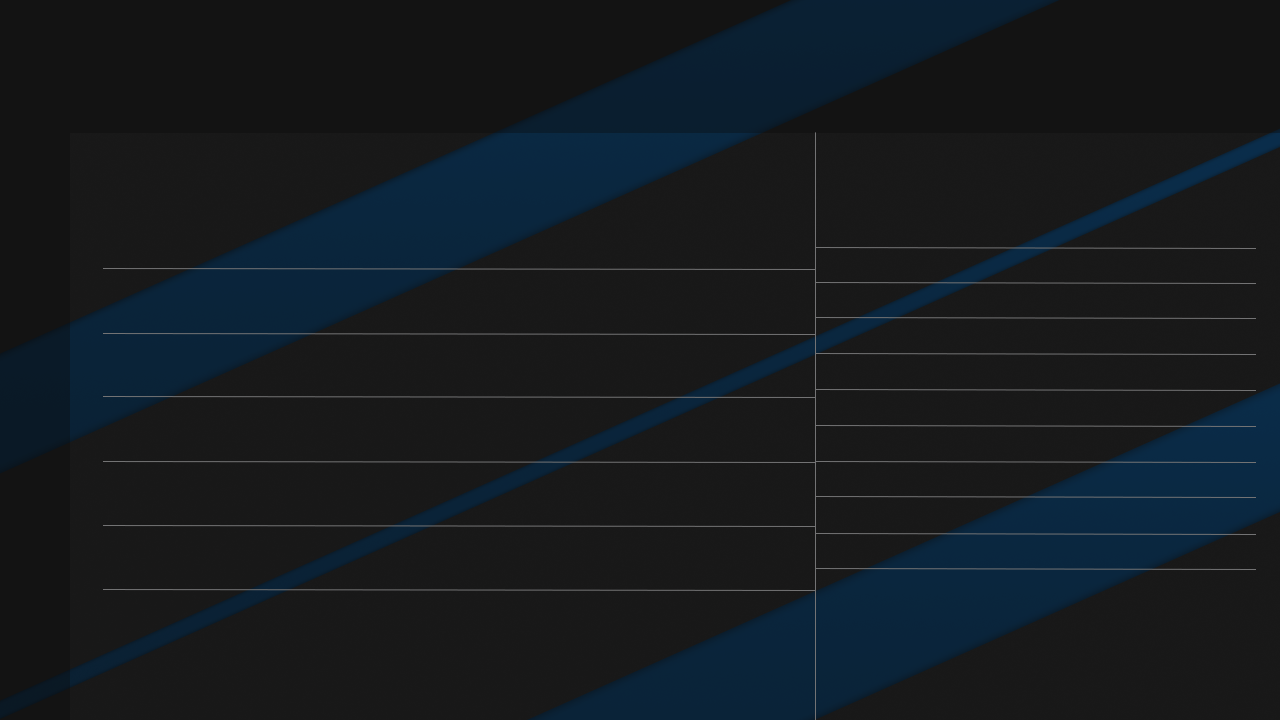
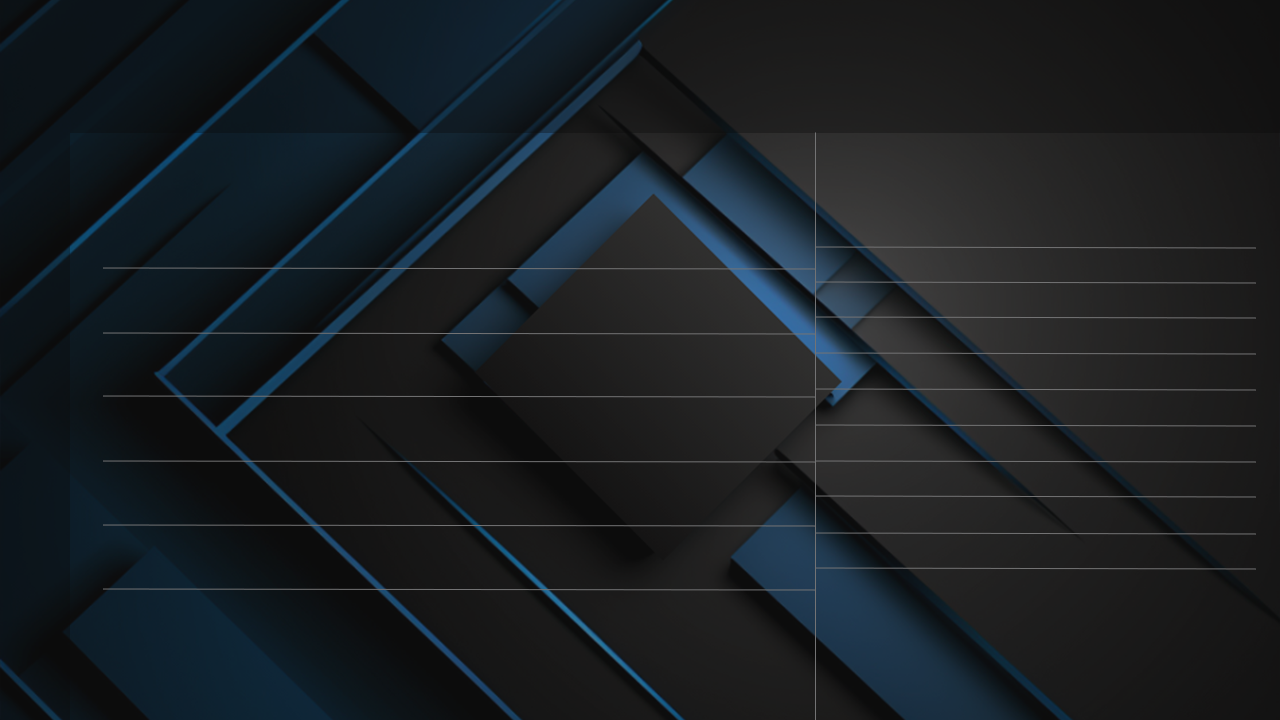
Add: Reorganize non-bias handling
Changelog
------------

- Version bump (for metrics/testing)
- Overhauled Reorganize function to handle non-bias  merge requests
- Replaced background images (testing future theme updates)
- Updated Velocity to work with new Reorganize overhaul

diff --git a/src/core/main.cpp b/src/core/main.cpp
@@ -1831,20 +1831,49 @@ bool static Reorganize(CTxDB& txdb, CBlockIndex* pindexNew)
 
     // Set values
     CBlockIndex* pfork = pindexBest;
-    CBlockIndex* plonger = pindexNew;
-    CBlockIndex* plongerindex = plonger;
-    int64_t pfinglonger = (plonger->nHeight - pfork->nHeight);
-    int64_t pheightlonger = plonger->nHeight;
-    int64_t preorgmax = (pfork->nHeight - BLOCK_REORG_MAX_DEPTH);
-    int diffFactor = 0;
+    CBlockIndex* pMerge = pindexNew;
+    CBlockIndex* pMergeIndex = pMerge;
+    int64_t nMergeDepth = 0;
+    int64_t pHeightMerge = pMerge->nHeight;
+    int64_t nHeightShorter = 0;
+    int64_t nReorgMax = 0;
+    int64_t diffFactor = 0;
+    bool fMergeReverse = false;
+
+    // Find reorganize direction and set values
+    // (Espers [ESP] is not directionally bias)
+    if (pMerge->nHeight > pfork->nHeight) {
+        // Set directionally bias values
+        nMergeDepth = (pMerge->nHeight - pfork->nHeight);
+        nHeightShorter = pfork->nHeight;
+        nReorgMax = (pfork->nHeight - BLOCK_REORG_MAX_DEPTH);
+    } else {
+        // Set directionally bias values
+        nMergeDepth = (pfork->nHeight - pMerge->nHeight);
+        fMergeReverse = true;
+        nHeightShorter = pMerge->nHeight;
+        nReorgMax = (pMerge->nHeight - BLOCK_REORG_MAX_DEPTH);
+    }
+
+
+    // Ensure reorganize direction sanity
+    if (fMergeReverse) {
+        // Only allow reverse reorgs from Demi-nodes
+        // (Override for back-to-block command)
+        if((fDemiPeerRelay(GetRelayPeerAddr) && fDemiNodes) || !strRollbackToBlock.empty()) {
+            LogPrintf("Reorganize() : Authorized a reverse-reorganize, now executing...\n");
+        } else {
+            return error("Reorganize() : Denied a reverse-reorganize - Not authorized!");
+        }
+    }
 
     // Ensure reorganize depth sanity
-    if (pfinglonger > BLOCK_REORG_MAX_DEPTH) {
+    if (nMergeDepth > BLOCK_REORG_MAX_DEPTH) {
         // Only allow deep reorgs from Demi-nodes
         // TODO: allow override as set in config file
         if(fDemiPeerRelay(GetRelayPeerAddr) && fDemiNodes) {
-            preorgmax -= BLOCK_REORG_OVERRIDE_DEPTH;
-            if (pfinglonger > BLOCK_REORG_THRESHOLD) {
+            nReorgMax -= BLOCK_REORG_OVERRIDE_DEPTH;
+            if (nMergeDepth > BLOCK_REORG_THRESHOLD) {
                 return error("Reorganize() : Threshold depth exceeded");
             }
         } else {
@@ -1853,21 +1882,23 @@ bool static Reorganize(CTxDB& txdb, CBlockIndex* pindexNew)
     }
 
     // Set rolling checkpoint status, just in case we haven't accepted any blocks yet
-    // TODO: Clean up to prevent redundant calls beween reorganize and AcceptBlock
-    fRollingCheckpoint = RollingCheckpoints(pfork->nHeight);
+    // and/or in case we're reverse reorganizing
+    // TODO: move this to reorganize direction check, then toggle this only if
+    // no previous blocks were accepted yet (no previous rolling checkpoint)
+    fRollingCheckpoint = RollingCheckpoints(nHeightShorter, pfork);
 
     // Get a checkpoint for quality assurance
     if (fRollingCheckpoint) {
         // Verify chain quality
-        while (pheightlonger > RollingHeight)
+        while (pHeightMerge > RollingHeight)
         {
-            if(plongerindex->GetBlockHash() == RollingBlock) {
+            if(pMergeIndex->GetBlockHash() == RollingBlock) {
                 break;
             }
-            plongerindex = plongerindex->pprev;
-            pheightlonger --;
+            pMergeIndex = pMergeIndex->pprev;
+            pHeightMerge --;
         }
-        if(plongerindex->GetBlockHash() != RollingBlock) {
+        if(pMergeIndex->GetBlockHash() != RollingBlock) {
             return error("Reorganize() : Chain quality failed, blockhash is invalid");
         }
     } else {
@@ -1876,20 +1907,20 @@ bool static Reorganize(CTxDB& txdb, CBlockIndex* pindexNew)
     }
 
     // Find the fork
-    while (pfork != plonger)
+    while (pfork != pMerge)
     {
         diffFactor ++;
-        while (plonger->nHeight > pfork->nHeight)
-            if (!(plonger = plonger->pprev))
+        while (pMerge->nHeight > pfork->nHeight)
+            if (!(pMerge = pMerge->pprev))
                 return error("Reorganize() : plonger->pprev is null");
-        if (pfork == plonger)
+        if (pfork == pMerge)
             break;
         if (!(pfork = pfork->pprev))
             return error("Reorganize() : pfork->pprev is null");
     }
 
     // Verify Supply Sanity of connecting branch
-    if(!bIndex_Factor(plonger, pindexNew, diffFactor))
+    if(!bIndex_Factor(pfork, pMerge, diffFactor))
     {
         // Invalid branch coin supply
         return error("Reorganize() : Invalid branch coin supply");
@@ -1910,7 +1941,7 @@ bool static Reorganize(CTxDB& txdb, CBlockIndex* pindexNew)
     LogPrintf("REORGANIZE: Disconnect %u blocks; %s..%s\n", vDisconnect.size(), pfork->GetBlockHash().ToString(), pindexBest->GetBlockHash().ToString());
     LogPrintf("REORGANIZE: Connect %u blocks; %s..%s\n", vConnect.size(), pfork->GetBlockHash().ToString(), pindexNew->GetBlockHash().ToString());
 
-    // Disconnect shorter branch
+    // Disconnect current branch
     list<CTransaction> vResurrect;
     BOOST_FOREACH(CBlockIndex* pindex, vDisconnect)
     {
@@ -1924,11 +1955,11 @@ bool static Reorganize(CTxDB& txdb, CBlockIndex* pindexNew)
         // We only do this for blocks after the last checkpoint (reorganisation before that
         // point should only happen with -reindex/-loadblock, or a misbehaving peer.
         BOOST_REVERSE_FOREACH(const CTransaction& tx, block.vtx)
-            if (!(tx.IsCoinBase() || tx.IsCoinStake()) && pindex->nHeight > preorgmax)
+            if (!(tx.IsCoinBase() || tx.IsCoinStake()) && pindex->nHeight > nReorgMax)
                 vResurrect.push_front(tx);
     }
 
-    // Connect longer branch
+    // Connect merging branch
     vector<CTransaction> vDelete;
     for (unsigned int i = 0; i < vConnect.size(); i++)
     {
@@ -1962,12 +1993,12 @@ bool static Reorganize(CTxDB& txdb, CBlockIndex* pindexNew)
     if (!txdb.TxnCommit())
         return error("Reorganize() : TxnCommit failed");
 
-    // Disconnect shorter branch
+    // Disconnect current branch
     BOOST_FOREACH(CBlockIndex* pindex, vDisconnect)
         if (pindex->pprev)
             pindex->pprev->pnext = NULL;
 
-    // Connect longer branch
+    // Connect merging branch
     BOOST_FOREACH(CBlockIndex* pindex, vConnect)
         if (pindex->pprev)
             pindex->pprev->pnext = pindex;
@@ -2477,7 +2508,7 @@ bool CBlock::AcceptBlock()
 
     // Set rolling checkpoint status
     // TODO: Clean up to prevent redundant calls beween reorganize and AcceptBlock
-    fRollingCheckpoint = RollingCheckpoints(nHeight);
+    fRollingCheckpoint = RollingCheckpoints(nHeight, pindexPrev);
 
     return true;
 }

diff --git a/src/consensus/velocity.cpp b/src/consensus/velocity.cpp
@@ -129,17 +129,17 @@ bool Velocity(CBlockIndex* prevBlock, CBlock* block, bool fFactor_tx)
     return true;
 }
 
-bool RollingCheckpoints(int nHeight)
+bool RollingCheckpoints(int nHeight, CBlockIndex* pindexRequest)
 {
     // Skip chain start
     if (nHeight < 5000) {
         return false;
     }
     // Define values
-    CBlockIndex* pindexCurrentBlock = pindexBest;
+    CBlockIndex* pindexCurrentBlock = pindexRequest;
     CBlockIndex* pindexPastBlock = pindexCurrentBlock;
     // Set count and loop
-    int pastBLOCK_1 = (pindexCurrentBlock->nHeight - (BLOCK_TEMP_CHECKPOINT_DEPTH + BLOCK_REORG_THRESHOLD));
+    int pastBLOCK_1 = (nHeight - (BLOCK_TEMP_CHECKPOINT_DEPTH + BLOCK_REORG_THRESHOLD));
     while (pastBLOCK_1 < pindexCurrentBlock->nHeight) {
         // Index backwards
         pindexPastBlock = pindexPastBlock->pprev;

diff --git a/src/consensus/velocity.h b/src/consensus/velocity.h
@@ -30,7 +30,7 @@ bool tx_Factor(CBlockIndex* prevBlock, CBlock* block);
 bool bIndex_Factor(CBlockIndex* InSplitPoint, CBlockIndex* InSplitEnd, int InFactor);
 
 int VelocityI(int nHeight);
-bool RollingCheckpoints(int nHeight);
+bool RollingCheckpoints(int nHeight, CBlockIndex *pindexRequest);
 
 extern bool VELOCITY_FACTOR; /** Treat Switches as factors of Block Scanning */
 extern uint256 RollingBlock;

diff --git a/src/consensus/clientversion.h b/src/consensus/clientversion.h
@@ -9,7 +9,7 @@
 #define CLIENT_VERSION_MAJOR       0
 #define CLIENT_VERSION_MINOR       8
 #define CLIENT_VERSION_REVISION    8
-#define CLIENT_VERSION_BUILD       6
+#define CLIENT_VERSION_BUILD       7
 
 // Set to true for release, false for prerelease or test build
 #define CLIENT_VERSION_IS_RELEASE  true

diff --git a/src/consensus/version.h b/src/consensus/version.h
@@ -30,7 +30,7 @@ static const int DATABASE_VERSION = 70509;
 //
 // network protocol versioning
 //
-static const int PROTOCOL_VERSION = 60043;
+static const int PROTOCOL_VERSION = 60044;
 
 // intial proto version, to be increased after version/verack negotiation
 static const int INIT_PROTO_VERSION = 209;

diff --git a/src/qt/bitcoingui.cpp b/src/qt/bitcoingui.cpp
@@ -508,7 +508,7 @@ void BitcoinGUI::createToolBars()
 
 void BitcoinGUI::setClientModel(ClientModel *clientModel)
 {
-    netLabel->setText("v0.8.8.6");// Version in GUI
+    netLabel->setText("v0.8.8.7");// Version in GUI
     this->clientModel = clientModel;
     if(clientModel)
     {

diff --git a/src/util/init.cpp b/src/util/init.cpp
@@ -867,7 +867,7 @@ bool AppInit2(boost::thread_group& threadGroup)
         }
         else
         {
-            LogPrintf("Back block was requested but not defined!\n");
+            LogPrintf("Back to block was requested but not defined!\n");
         }
     }
 
